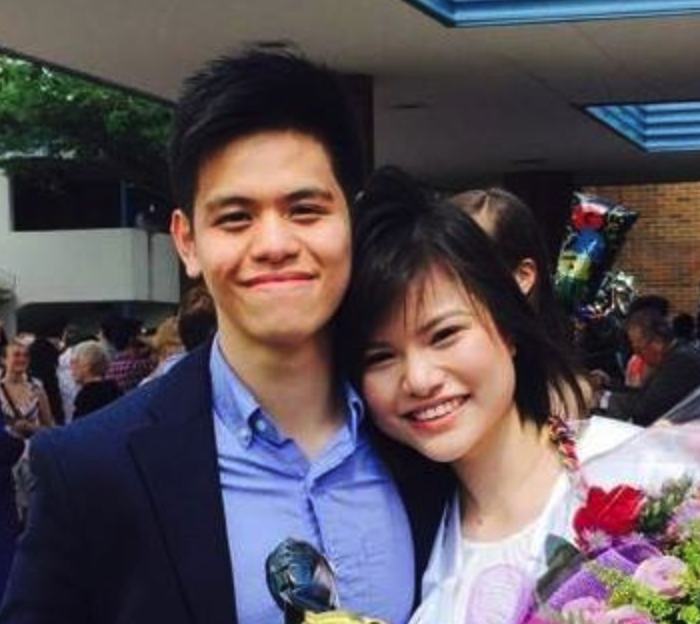
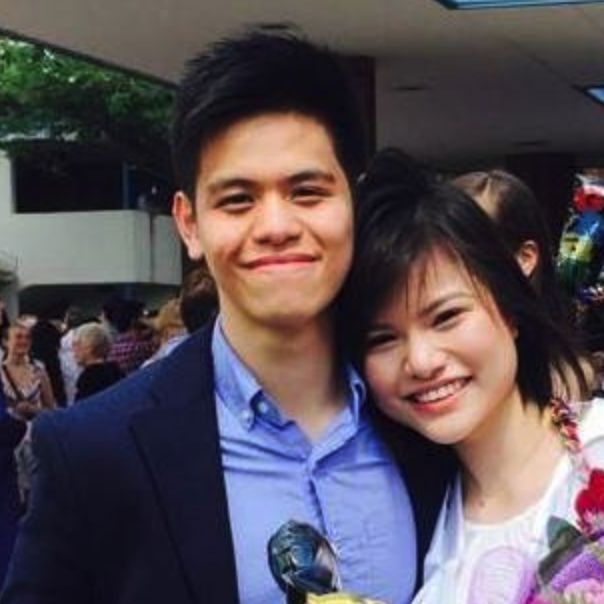
centering propic in settings p2

diff --git a/meditation_flow/home.html b/meditation_flow/home.html
@@ -48,9 +48,9 @@
 
 		<div class='user_profile_id_9809403065'>
 			<div class='user_profile_pic_frame_9809403065'>
-				<img class='user_profile_pic_9809403065' src="https://cdn.statically.io/gh/starlord92/mediatate/c56f86aa/images/profile_pic.jpg">
+				<img class='user_profile_pic_9809403065' src="https://cdn.statically.io/gh/starlord92/mediatate/e24aca9d/images/profile_pic.png">
 			</div>
-			<div class='user_profile_name_9809403065'>Mark</div>
+			<div class='user_profile_text_9809403065'>Mark</div>
 			
 		</div>
 			

diff --git a/meditation_flow/home.css b/meditation_flow/home.css
@@ -172,16 +172,21 @@ body{
 	text-align: center;
 
 	display: grid;
+	/*grid-template-columns: 1fr 1fr 1fr 1fr 1fr;*/
+
 /*
 	justify-content: center;
 	align-items: top;*/
 }
 
 .user_profile_pic_9809403065 {
-	max-width: 200%; 
-    max-height: 200%;
+	max-width: 60%; 
+    max-height: 180%;
 
-    border-radius: 50%;
+    border-radius: 48%;
+/*
+    grid-column-start:1;
+	grid-column-end:5;*/
  }
 
 .user_profile_section_show_9809403065 {
